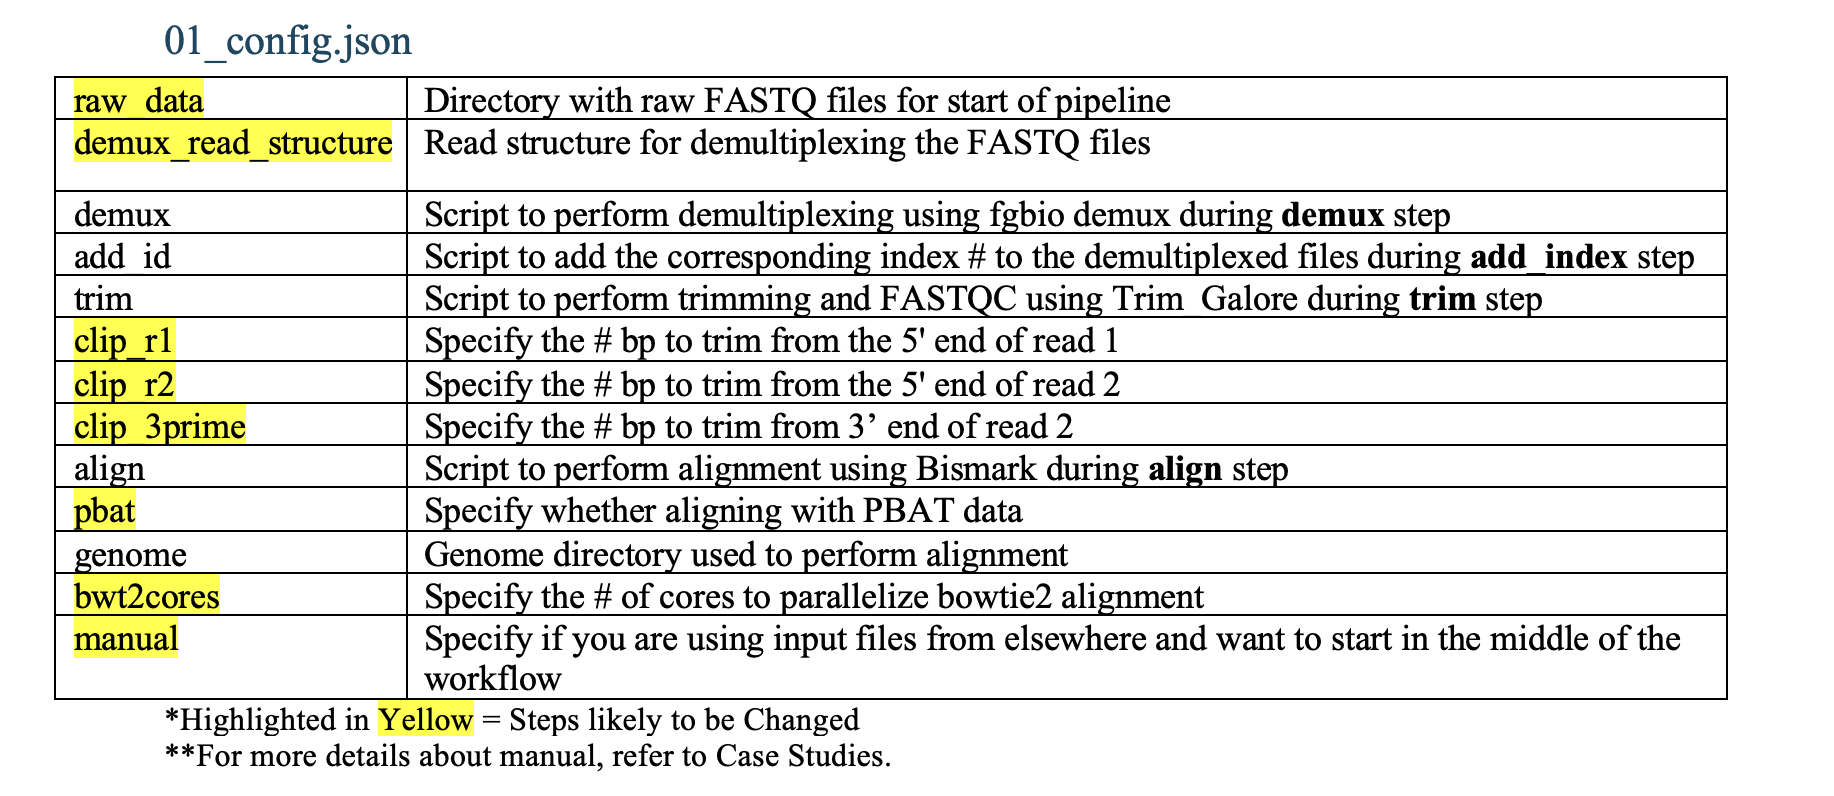
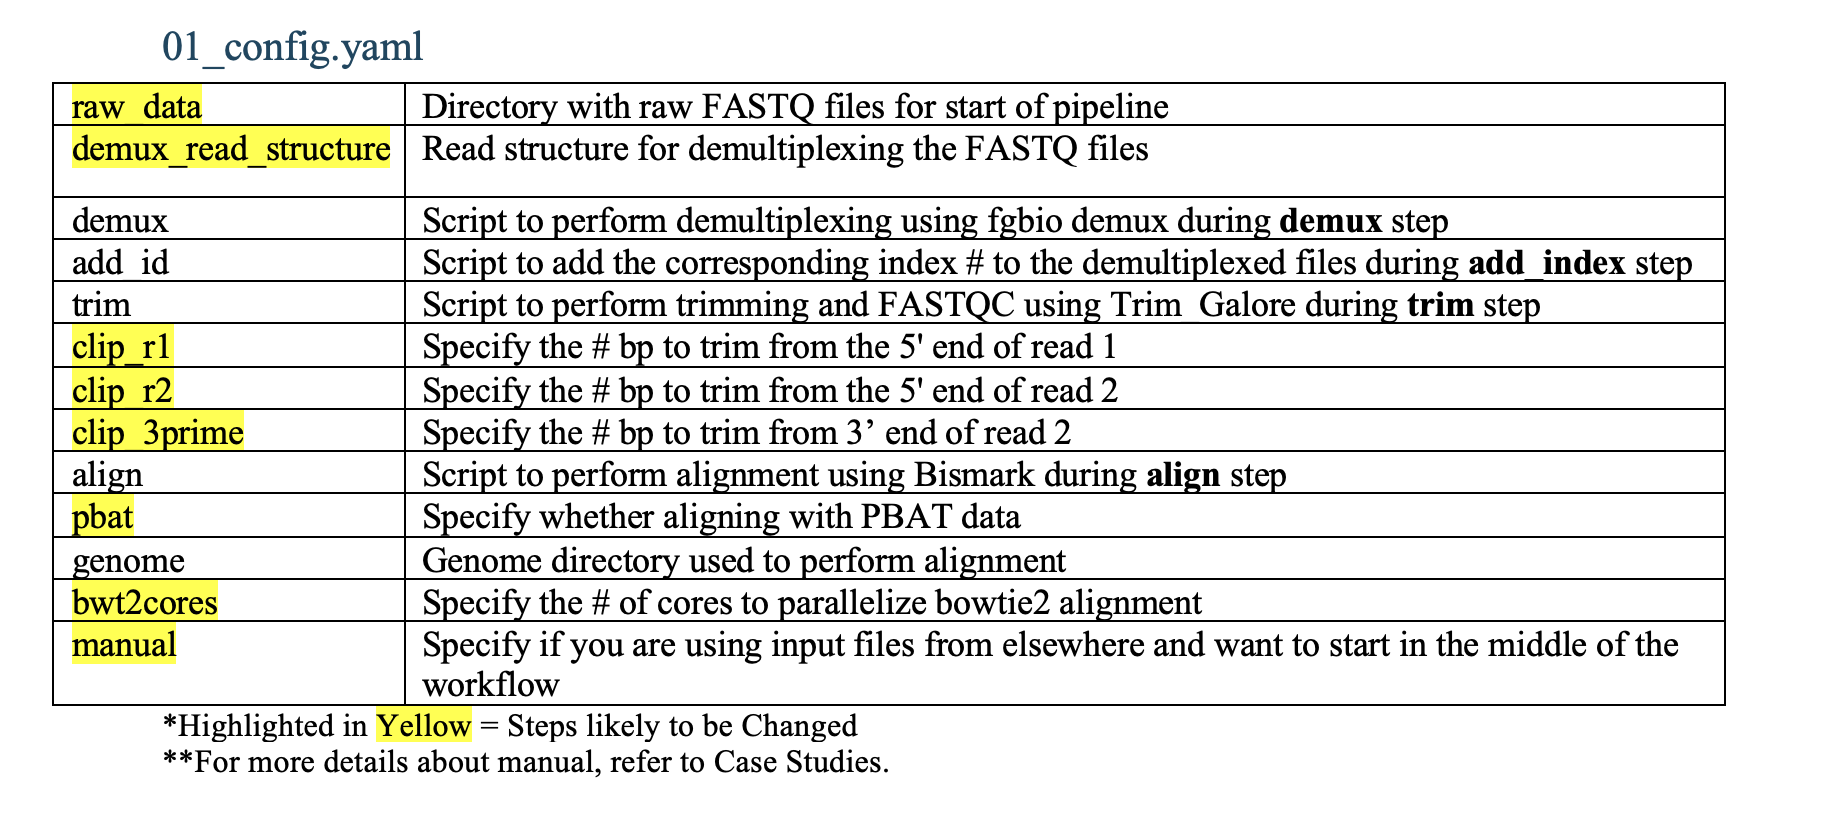
Adding comments to config files. Fixing small error with parsing for blank samples.

Changed region(s): [[0.0311, 0.0302, 0.9635, 0.9648]]

diff --git a/README.md b/README.md
@@ -53,27 +53,7 @@ cd AMLClock
 Run ```tree``` to ensure you have all the neccessary files. 
 Your output should look like this: 
 ```
-.
-├── EXAMPLE_INPUT
-│   ├── SampleSheets
-│   │   └── S1_SampleSheet.csv
-│   ├── data_S1_R1.fastq.gz
-│   └── data_S1_R2.fastq.gz
-├── README.md
-├── Snakefile
-├── aml_clock.yaml
-├── assets
-│   ├── cluster_breakdown.png
-│   └── config_breakdown.png
-├── config
-│   ├── cluster
-│   │   └── config.v8+.yaml
-│   └── config.json
-└── scripts
-    ├── add_id.sh
-    ├── align.sh
-    ├── fg_demux.sh
-    └── trim.sh
+
 
 ```
 
@@ -115,7 +95,7 @@ cd AMLClock
 
 <br>
 
-2. Navigate to config/01_config.json. You will need to change the variables to match what you need. 
+2. Navigate to config/01_config.yaml. You will need to change the variables to match what you need. 
     
     These are the variables you **must** change and their required values: 
     1. **raw_data: [absolute path to input data directory]**
@@ -141,7 +121,7 @@ cd AMLClock
 4. Perform a Snakemake dry run to confirm that your data will be ran correctly. 
     ```
     cd AMLClock
-    configfile=[absolute path to 01_config.json]
+    configfile=[absolute path to 01_config.yaml]
     snakefile=[absolute path to 01_preprocessing.smk]
 
     snakemake -n –-profile config/cluster/ --configfile=$configfile -s $snakefile 
@@ -213,7 +193,7 @@ I will address both below:
 
 <br>
 
-2. Adjust your config file in config/01_config.json as needed. 
+2. Adjust your config file in config/01_config.yaml as needed. 
 
     These are the variables you **must** change and their required values: 
     1. **raw_data: [absolute path to input dir]**
@@ -236,7 +216,7 @@ I will address both below:
     ```
     cd AMLClock
     snakefile=[absolute path to 01_preprocessing.smk]
-    configfile=[absolute path to 01_config.json]
+    configfile=[absolute path to 01_config.yaml]
     snakemake -n –-profile config/cluster/ --configfile=$configfile -s $snakefile 
     ```
 
@@ -249,7 +229,7 @@ I will address both below:
     ```
     cd AMLClock
     snakefile=[absolute path to 01_preprocessing.smk]
-    configfile=[absolute path to 01_config.json]
+    configfile=[absolute path to 01_config.yaml]
     sbatch scripts/run_pipeline.sh -c $configfile -s $snakefile
 
     ```
@@ -272,7 +252,7 @@ This workflow is very similar to the Preprocessing Workflow.
     
 <br>
 
-2. Navigate to config/02_config.json. You will need to change the variables to match what you need. 
+2. Navigate to config/02_config.yaml. You will need to change the variables to match what you need. 
     
     These are the variables you **must** change and their required values: 
     1. **main_dir: [absolute path to input data directory]**
@@ -301,7 +281,7 @@ This workflow is very similar to the Preprocessing Workflow.
 4. Perform a Snakemake dry run to confirm that your data will be ran correctly. 
     ```
     cd AMLClock
-    configfile=[absolute path to 02_config.json]
+    configfile=[absolute path to 02_config.yaml]
     snakefile=[absolute path to 02_methylation_calling.smk]
 
     snakemake -n –-profile config/cluster/ --configfile=$configfile -s $snakefile 
@@ -357,7 +337,7 @@ The only way this would occur for this workflow is for when you have deduplicate
 
 <br>
 
-2. Adjust your config file in config/02_config.json as needed. 
+2. Adjust your config file in config/02_config.yaml as needed. 
 
     These are the variables you **must** change and their required values: 
     1. **main_dir: [absolute path to input dir]**
@@ -382,7 +362,7 @@ The only way this would occur for this workflow is for when you have deduplicate
     ```
     cd AMLClock
     snakefile=[absolute path to 02_preprocessing.smk]
-    configfile=[absolute path to 02_config.json]
+    configfile=[absolute path to 02_config.yaml]
     snakemake -n –-profile config/cluster/ --configfile=$configfile -s $snakefile 
     ```
 
@@ -395,7 +375,7 @@ The only way this would occur for this workflow is for when you have deduplicate
     ```
     cd AMLClock
     snakefile=[absolute path to 02_preprocessing.smk]
-    configfile=[absolute path to 02_config.json]
+    configfile=[absolute path to 02_config.yaml]
     sbatch scripts/run_pipeline.sh -c $configfile -s $snakefile
 
     ```
